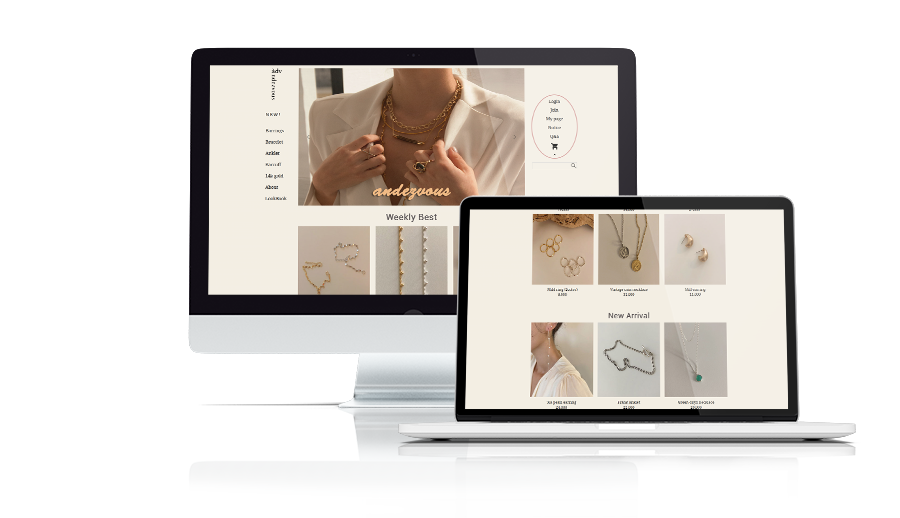
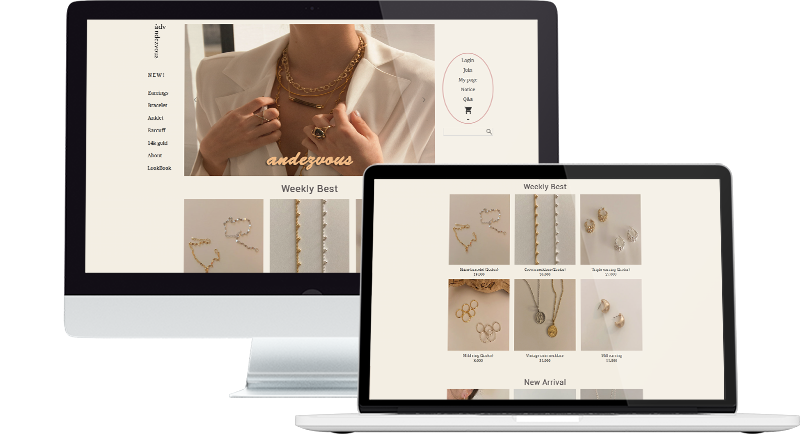
기획안수저
수정

diff --git a/index.html b/index.html
@@ -30,7 +30,7 @@
                  <div class="web_btn clearfix">
                   <h2>Web Site</h2>
                   <div class="port_menu clearfix">
-                     <p class="p click">1</p>
+                     <p class="p on">1</p>
                      <p class="p">2</p>
                     <p class="p">3</p>
                   </div>                    
@@ -144,20 +144,20 @@
                      <p>
                        <strong>Phone Case</strong><br />
                        <span class="st">
-                         봄카드 청첩장 공모전<br/>
+                         핸드폰 케이스 공모전<br/>
                          2016년 개인작업<br />
                          기획 / 디자인 기여도 100%<br/>
                        </span>
                        <br/>
                        <span>
-                         신혼부부가 타고있는 컨셉으로 색연필과 물감으로<br/>
-                         아기자기한 느낌을 낼 수 있도록 디자인 하였다.
+                         '부다페스트 호텔' 영화를 감명 깊게 보게되어,<br/>
+                         그 영화의 색감과 분위기를 표현해 케이스를 제작해보았다.
                        </span>
                      </p>
                    </div>              
                  </div>
                  <div class="tab other_tab baby">
-                   <div><img src="./images/baby.png" alt="아기 아이콘"></div>
+                   <div><img src="./images/baby.jpg" alt="아기 아이콘"></div>
                    <div class="preview">
                      <p class="proc"><a href="andezvous/andezvous2.html">PROCESS</a></p>
                    </div>
@@ -171,8 +171,8 @@
                        </span>
                        <br/>
                        <span>
-                         신혼부부가 타고있는 컨셉으로 색연필과 물감으로<br/>
-                         아기자기한 느낌을 낼 수 있도록 디자인 하였다.
+                         디자인은 곡선과 파스텔톤 색감을 사용하여 부드럽고<br />
+                         아기자기한 느낌으로 제작 하였다.
                        </span>
                      </p>
                    </div> 

diff --git a/script/script.js b/script/script.js
@@ -35,7 +35,7 @@ $(document).ready(function(){
     });
   
     $(".m_btn>.center").click(function(){
-      $(".center_info").css({width:"50%",height:"55%",opacity:"1"},1000);
+      $(".center_info").css({width:"50%",height:"50%",opacity:"1"},1000);
       $(".bg").css({width:"100%",height:"100%"});
     });
 
@@ -63,8 +63,8 @@ $(document).ready(function(){
         $btn.parent().removeClass("click").eq(i).addClass("click");
         
         $(".tab1").hide().eq(i).show();
-        if($('.btn03').hasClass('click')){ //if 랑 붙어져 있으면 hasClass 가지고있으면,
-          $('.keyword>.keyicon>li').stop().animate({bottom:'0',opacity:1},1000);
+        if($('.btn03').hasClass('click')){        
+        $('.keyword>.keyicon>li').stop().animate({bottom:'0',opacity:1},1000);
         }else{
           $('.keyword>.keyicon>li').css({bottom:'-20%',opacity:0});
         }
@@ -87,13 +87,13 @@ $(document).ready(function(){
         }
       }); 
   
-  //Portfolio 탭 누르면 내용 나오기
+  //포트폴리오 누르면 내용 나오기
 
    var $btn2=$(".p")
   
       $btn2.click(function(){
         var d=$btn2.index(this);
-        $btn2.parent().removeClass("click").eq(d).addClass("click");
+        $btn2.parent().removeClass("on").eq(d).addClass("on");
         $('.tab').hide().eq(d).show();
       });
 
@@ -108,21 +108,20 @@ $(document).ready(function(){
       });
   
   //포트폴리오 메뉴이동
+  
 $(".port_menu>p").click(function(){
   var i = $(this).index();
-  $(".port_menu>p").removeClass('on').eq(i).addClass('on');
+  $(".p").removeClass('on');
+  $(".port_menu>p").eq(i).addClass('on');
 });
-
   
-//$(".other_menu>p").mouseover(function(){
-//    var i = $(this).index();
-//    $(".other_menu>p").eq(i).find("img").attr("src", "images/on_"+(i+1)+".png");
-//  }); 
-//$(".port_menu>p").mouseleave(function(){
-//    var i = $(this).index();
-//     $(".port_menu>p").eq(i).find("img").attr("src", "images/"+(i+1)+".png");
-//});
+$(".other_menu>p").click(function(){
+  var i = $(this).index();
+  $(".p").removeClass('on');
+  $(".other_menu>p").eq(i).addClass('on');
+});
   
-
+  
+  
   
 });//도큐먼트끝

diff --git a/css/styles1.css b/css/styles1.css
@@ -82,11 +82,14 @@ hr{display:none;}
 
 .center_info{
   position: absolute;
+  width:770px;
   left: 50%;
   top:50%;
   transform:translate(-50%,-50%);
   z-index:100;
   background-image:url(../images/contact.png);
+  background-position: center center;
+  background-repeat: no-repeat;
 }
 .bg{ 
   position:fixed; 
@@ -172,7 +175,7 @@ hr{display:none;}
   text-shadow:3px 3px #ccc;
 }
 
-.aboutme .menubtn>.btn>p.click>a,
+
 .aboutme .menubtn>.btn>p>a:hover{ color:#ddb0a7; }
 .aboutme .menubtn>.btn>.btn01>a{ font-size:90px; }
 .aboutme .menubtn>.btn>p>a>img{ width:49px; height:49px; }
@@ -381,7 +384,7 @@ transition:all 2s ease-in-out;
 }
 .port_btn{
   position:absolute;
-  top:65%;
+  top:67%;
   right:10%;
   width:300px;
   height:75px;
@@ -428,7 +431,7 @@ transition:all 2s ease-in-out;
 .port_tab{
   position: relative;
   left:50%;
-  top:50%;
+  top:50%을
   width:1500px;
   transform:translate(-50%,-50%);
   height:650px;
@@ -436,14 +439,14 @@ transition:all 2s ease-in-out;
 
 .portalltab img{  
   position: absolute;
-  width:1000px;
-  left:-2%;
+  width:900px;
+  left:3%;
   top:50%;
   transform:translateY(-50%); 
 }
 
 .other_tab>div>img{
-  width:800px; 
+  width:800px;
   height:518px;
   left:5%;
 }

diff --git a/andezvous/ande_plan.html b/andezvous/ande_plan.html
@@ -4,9 +4,14 @@
   <meta charset="UTF-8">
   <title>앙데뷰기획안</title>
   <style>
-*{padding: 0; margin: 0;}
-div {width:100%}
-img{width:100%;}
+    /* reset */
+    *{margin: 0; padding: 0;}
+    img{border: 0; vertical-align: top;}
+    
+    
+    header{display: none;}
+    section{width: 100%;}
+    img{width: 100%;}  
   </style>
 </head>
 <body>

diff --git a/dukwoo/dukwoo_plan.html b/dukwoo/dukwoo_plan.html
@@ -4,9 +4,14 @@
   <meta charset="UTF-8">
   <title>덕우기획안</title>
   <style>
-*{padding: 0; margin: 0;}
-div {width:100%}
-img{width:100%;}
+    /* reset */
+    *{margin: 0; padding: 0;}
+    img{border: 0; vertical-align: top;}
+    
+    
+    header{display: none;}
+    section{width: 100%;}
+    img{width: 100%;}    
   </style>
 </head>
 <body>
